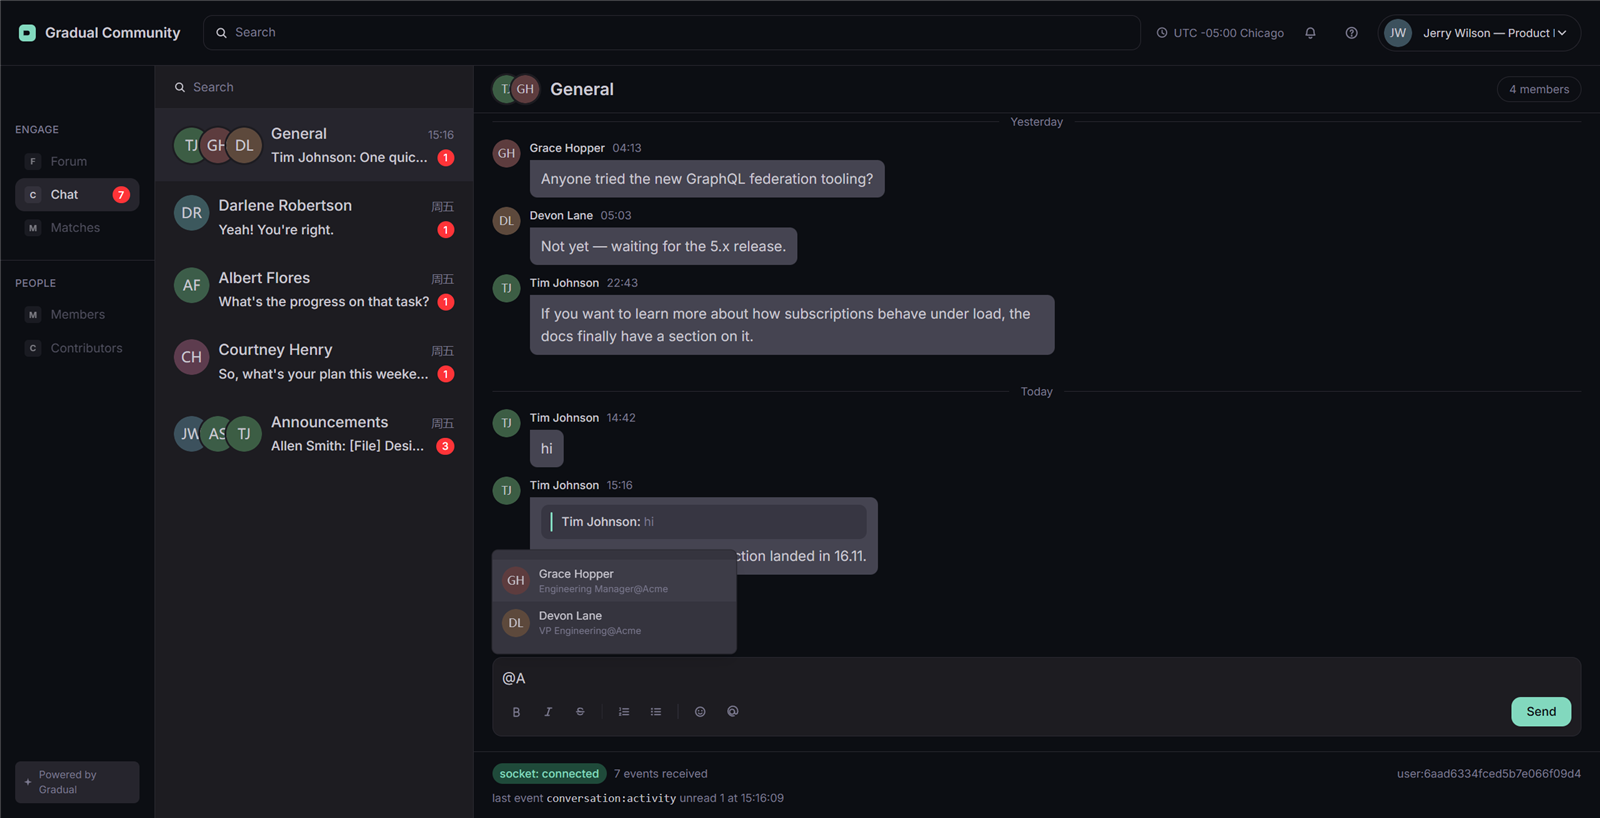
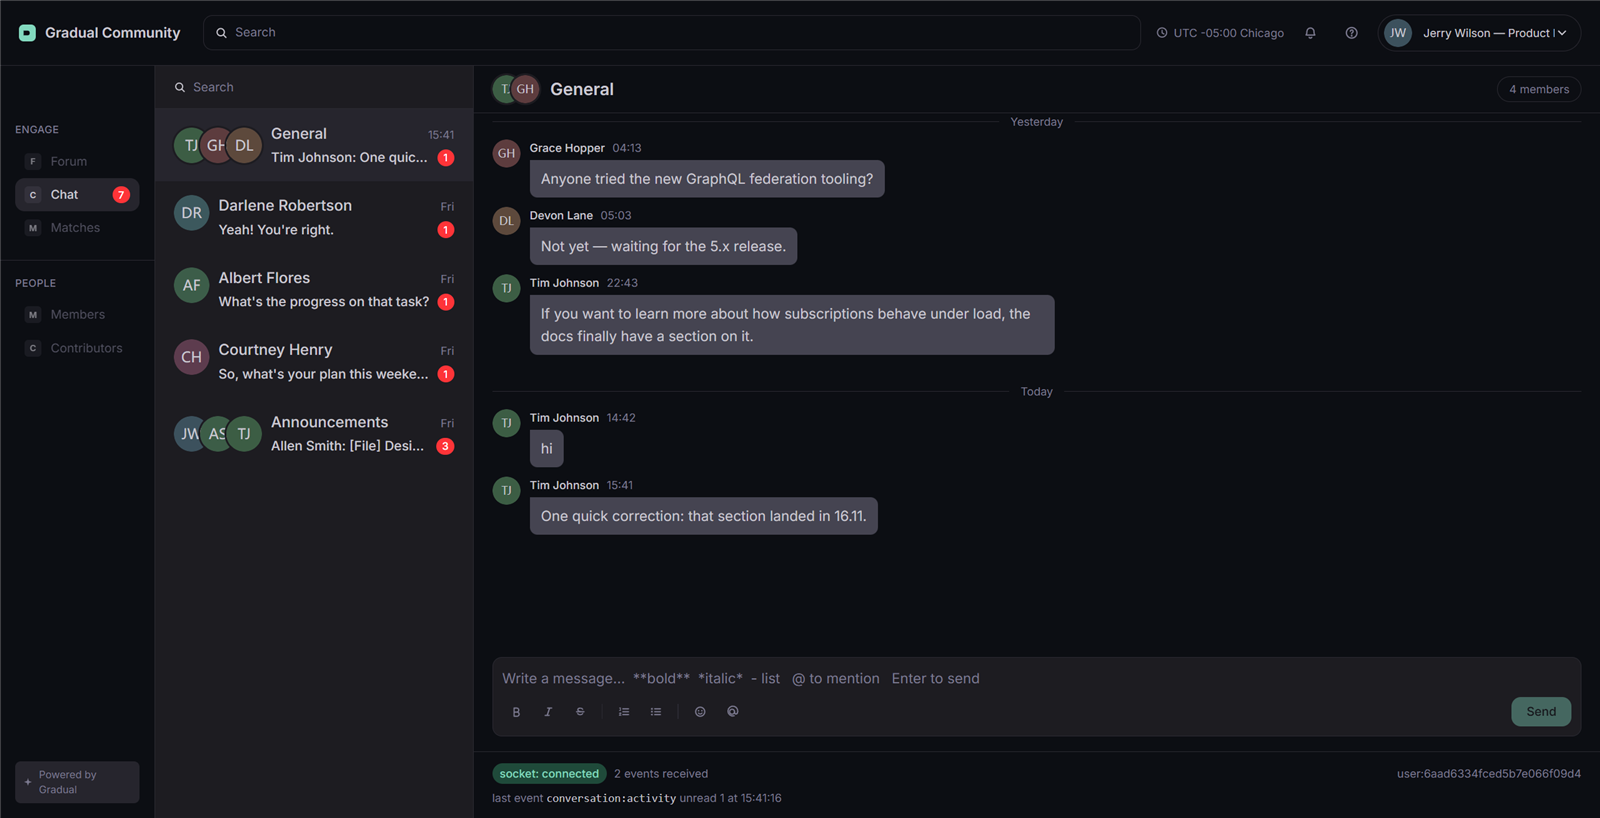
fix(web): pin every timestamp to en-US and a 24-hour clock
The UI is English — the seed data, the hard-coded `Today` / `Yesterday` separators,
the weekday labels — but five timestamp calls passed `undefined` as the locale, which
means "use the runtime's". On a Chinese browser the conversation list rendered `周五`
next to an English `Yesterday`, so one screen was in two languages at once.

All five now name `en-US` explicitly:

- ConversationListPane: the row timestamp, both branches
- formatTime: the message metadata
- MessageStream: the long date separator
- RealtimePanel: the event clock

`hour12: false` rides along on the three time-only calls. `en-US` defaults to a
12-hour clock, so pinning the locale alone would have swapped `14:42` — what the
design draws — for the wider `02:42 PM`. The fix for one problem would have quietly
introduced another.

The screenshots are re-taken from a running instance, since the previous set showed
the mixed-language result this commit removes.

`pnpm verify` is green at 224 tests.

diff --git a/apps/web/src/features/messages/formatTime.ts b/apps/web/src/features/messages/formatTime.ts
@@ -5,9 +5,13 @@
  * hot-replace a module that mixes a component with a plain function, so it falls back to a full
  * reload on every edit.
  *
- * `toLocaleTimeString` with no locale argument uses the runtime's locale: the seed data is English
- * but the reviewer's browser may not be, and honouring the browser is the correct default for a
- * chat timestamp.
+ * The locale is pinned to `en-US` rather than left to the runtime. Every other string in this UI is
+ * English — the seed data, `Today` / `Yesterday`, the weekday separators — so a timestamp that
+ * followed a Chinese or German browser would render the one screen in two languages at once.
+ *
+ * `hour12: false` rides along because `en-US` defaults to a 12-hour clock, and `02:42 PM` is a
+ * wider string than the compact `14:42` the design draws. Without it the fix for the language
+ * would have quietly changed the format.
  */
 
 /** `HH:MM`, which is what the design's message metadata shows. */
@@ -16,5 +20,5 @@ export function formatMessageTime(value: string): string {
 
   return Number.isNaN(at.getTime())
     ? ''
-    : at.toLocaleTimeString(undefined, { hour: '2-digit', minute: '2-digit' })
+    : at.toLocaleTimeString('en-US', { hour: '2-digit', minute: '2-digit', hour12: false })
 }

diff --git a/apps/web/src/features/conversations/ConversationListPane.tsx b/apps/web/src/features/conversations/ConversationListPane.tsx
@@ -220,16 +220,16 @@ function formatListTimestamp(value: string): string {
   const sameDay = at.toDateString() === now.toDateString()
 
   if (sameDay) {
-    return at.toLocaleTimeString(undefined, { hour: '2-digit', minute: '2-digit' })
+    return at.toLocaleTimeString('en-US', { hour: '2-digit', minute: '2-digit', hour12: false })
   }
 
   const days = (now.getTime() - at.getTime()) / 86_400_000
 
   if (days < 7) {
-    return at.toLocaleDateString(undefined, { weekday: 'short' })
+    return at.toLocaleDateString('en-US', { weekday: 'short' })
   }
 
-  return at.toLocaleDateString(undefined, { month: 'short', day: 'numeric' })
+  return at.toLocaleDateString('en-US', { month: 'short', day: 'numeric' })
 }
 
 function SearchGlyph() {

diff --git a/apps/web/src/features/realtime/RealtimePanel.tsx b/apps/web/src/features/realtime/RealtimePanel.tsx
@@ -63,9 +63,10 @@ export function RealtimePanel({ state }: { state: RealtimeState }) {
 }
 
 function formatClock(at: Date): string {
-  return at.toLocaleTimeString(undefined, {
+  return at.toLocaleTimeString('en-US', {
     hour: '2-digit',
     minute: '2-digit',
     second: '2-digit',
+    hour12: false,
   })
 }

diff --git a/apps/web/src/features/messages/MessageStream.tsx b/apps/web/src/features/messages/MessageStream.tsx
@@ -184,7 +184,7 @@ function dayLabel(at: Date): string {
     return 'Yesterday'
   }
 
-  return at.toLocaleDateString(undefined, {
+  return at.toLocaleDateString('en-US', {
     weekday: 'long',
     month: 'long',
     day: 'numeric',

diff --git a/README.md b/README.md
@@ -6,7 +6,7 @@ Built as a staged assignment: a scaffold carrying one vertical slice first, then
 
 ![The chat screen: three-column shell, conversation list with unread badges, message stream and composer](./docs/screenshots/01-conversation.png)
 
-The screenshots are of a running instance with seeded data. `docs/screenshots/` also carries the composer mid-quote with the mention dropdown open, the identity picker, and the frame right after a message arrives — the one where the list row, the badge and the stream have all moved over the socket with no refetch. [`docs/DEMO.md`](./docs/DEMO.md) shows all four and is also the 90-second walkthrough script.
+The screenshots are of a running instance with seeded data. `docs/screenshots/` also carries the composer mid-quote with the mention dropdown open, the identity picker, and the frame right after a message arrives — the one where the list row, the badge and the stream have all moved over the socket with no refetch.
 
 ---
 
@@ -313,6 +313,5 @@ These are choices, not gaps. Each one is in the design and out of the assignment
 ## Further reading
 
 - [`docs/DECISIONS.md`](./docs/DECISIONS.md) — why each choice was made, and what was rejected
-- [`docs/DEMO.md`](./docs/DEMO.md) — the screenshots annotated, plus the 90-second walkthrough script
 - [`docs/plans/chat-features.md`](./docs/plans/chat-features.md) — the messaging plan, its milestones, and the design inventory taken from Figma
 - [`AGENTS.md`](./AGENTS.md) — conventions for working in this repository
